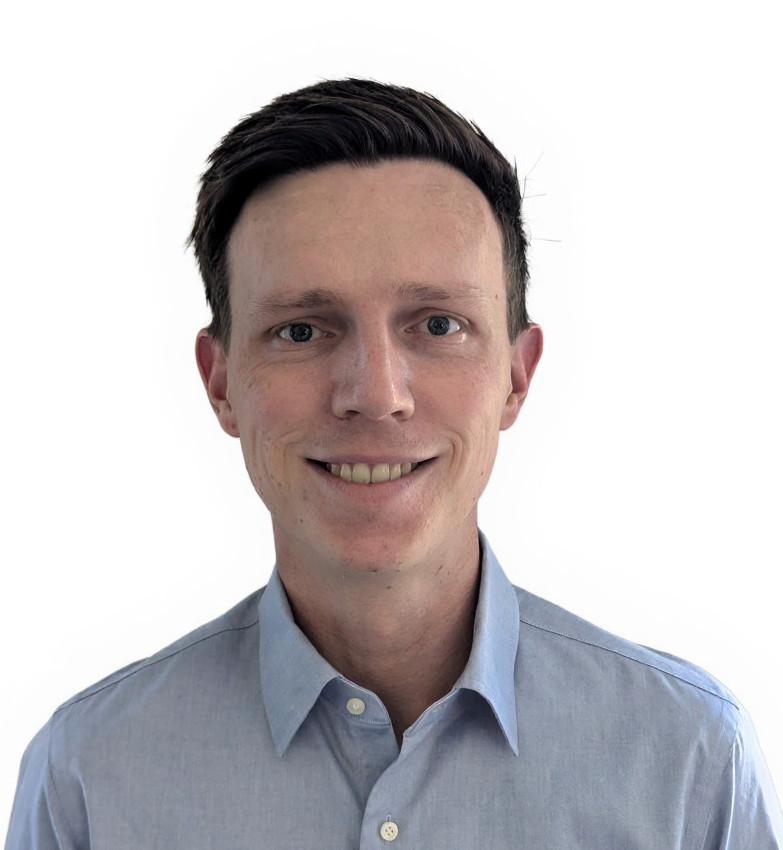
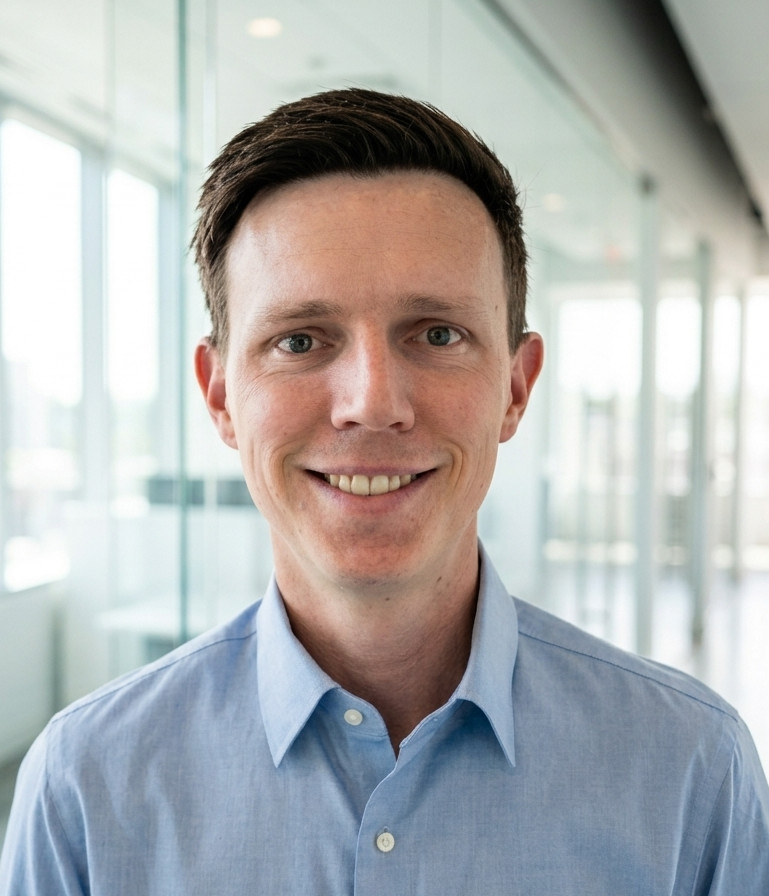
Update image and index

diff --git a/index.md b/index.md
@@ -7,7 +7,7 @@ Welcome to my website / blog.
 ---
 
 ## About Me
-> <img src="{{ site.baseurl }}/assets/images/tim.jpg" alt="That's me smiling" width="150"/>
+> <img src="{{ site.baseurl }}/assets/images/tim.jpg" alt="That's me smiling, AI-generated office background" width="150"/>
 >
 > **Contact**
 > 
@@ -18,8 +18,8 @@ Welcome to my website / blog.
 Father of two, married a Redick (born Übelhör), coder, maker, and robotics nerd.\
 Besides the nerdy hobbies, I like playing music on the guitar and piano, hiking, skiing, and running.
 
-* Currently, I am a postdoc at the Institute of Automatic Control, RWTH Aachen University, in the position of the "group manager navigation".
-* From 2018-2024, I worked there on my [thesis](https://doi.org/10.18154/RWTH-2024-04533) for my Dr.-Ing. (German Ph.D. in engineering)
+* I am a senior robotics engineer experienced in enabling more or less intelligent solutions in all kinds of fields , e.g., industry, medicine, agriculture, and drones.
+* Here is my [thesis](https://doi.org/10.18154/RWTH-2024-04533) about sampling-based 6D pose estimation for my Dr.-Ing. (German Ph.D. in engineering)
 * You can find more information in my [online CV](https://cv.redick.cc) or [my story](/2025/01/27/my-story.html) in prose (warning: no dark mode).
 
 ## Posts
